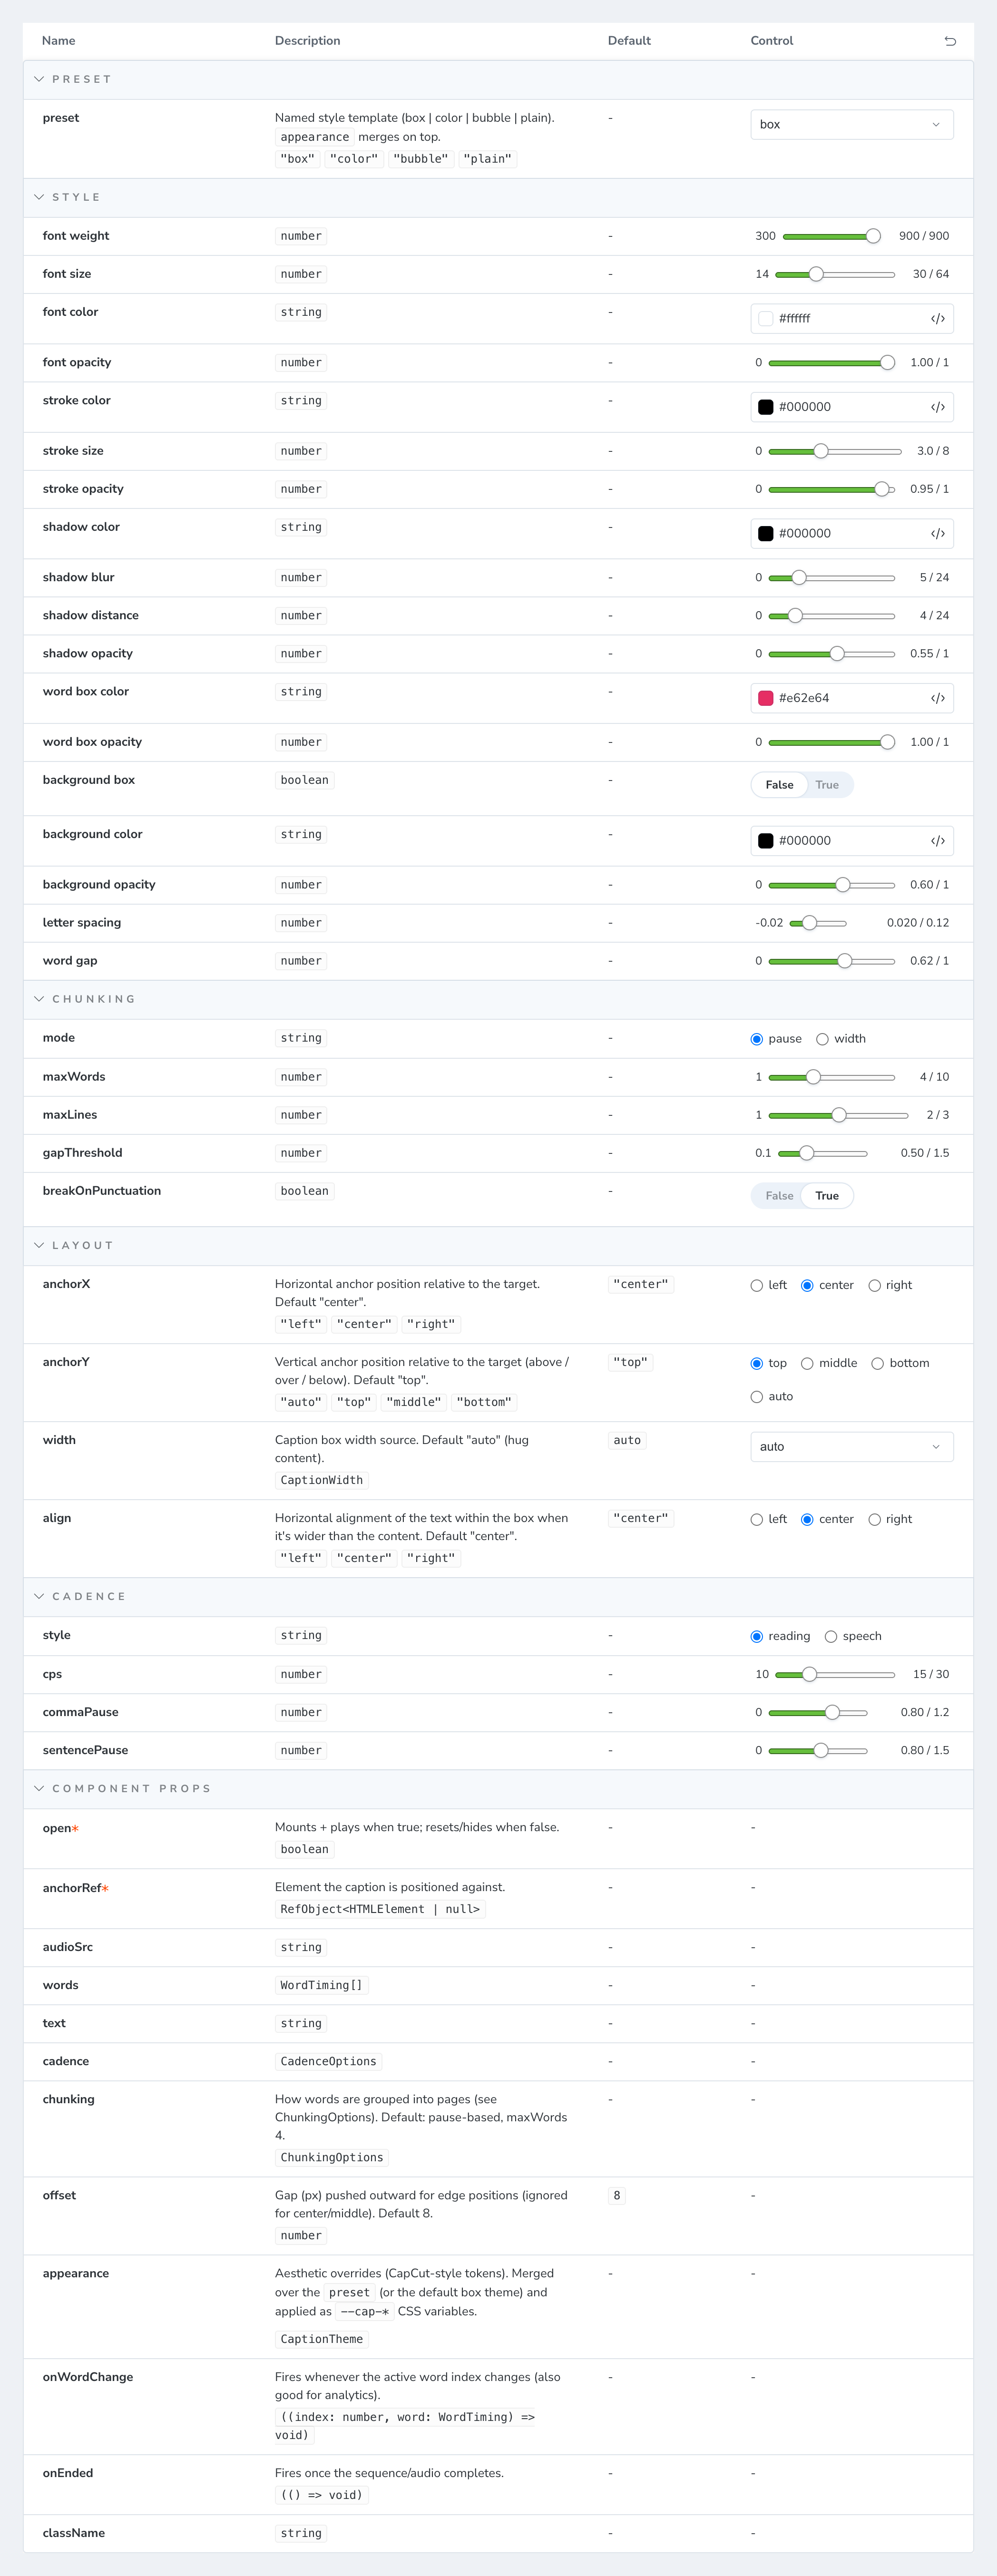
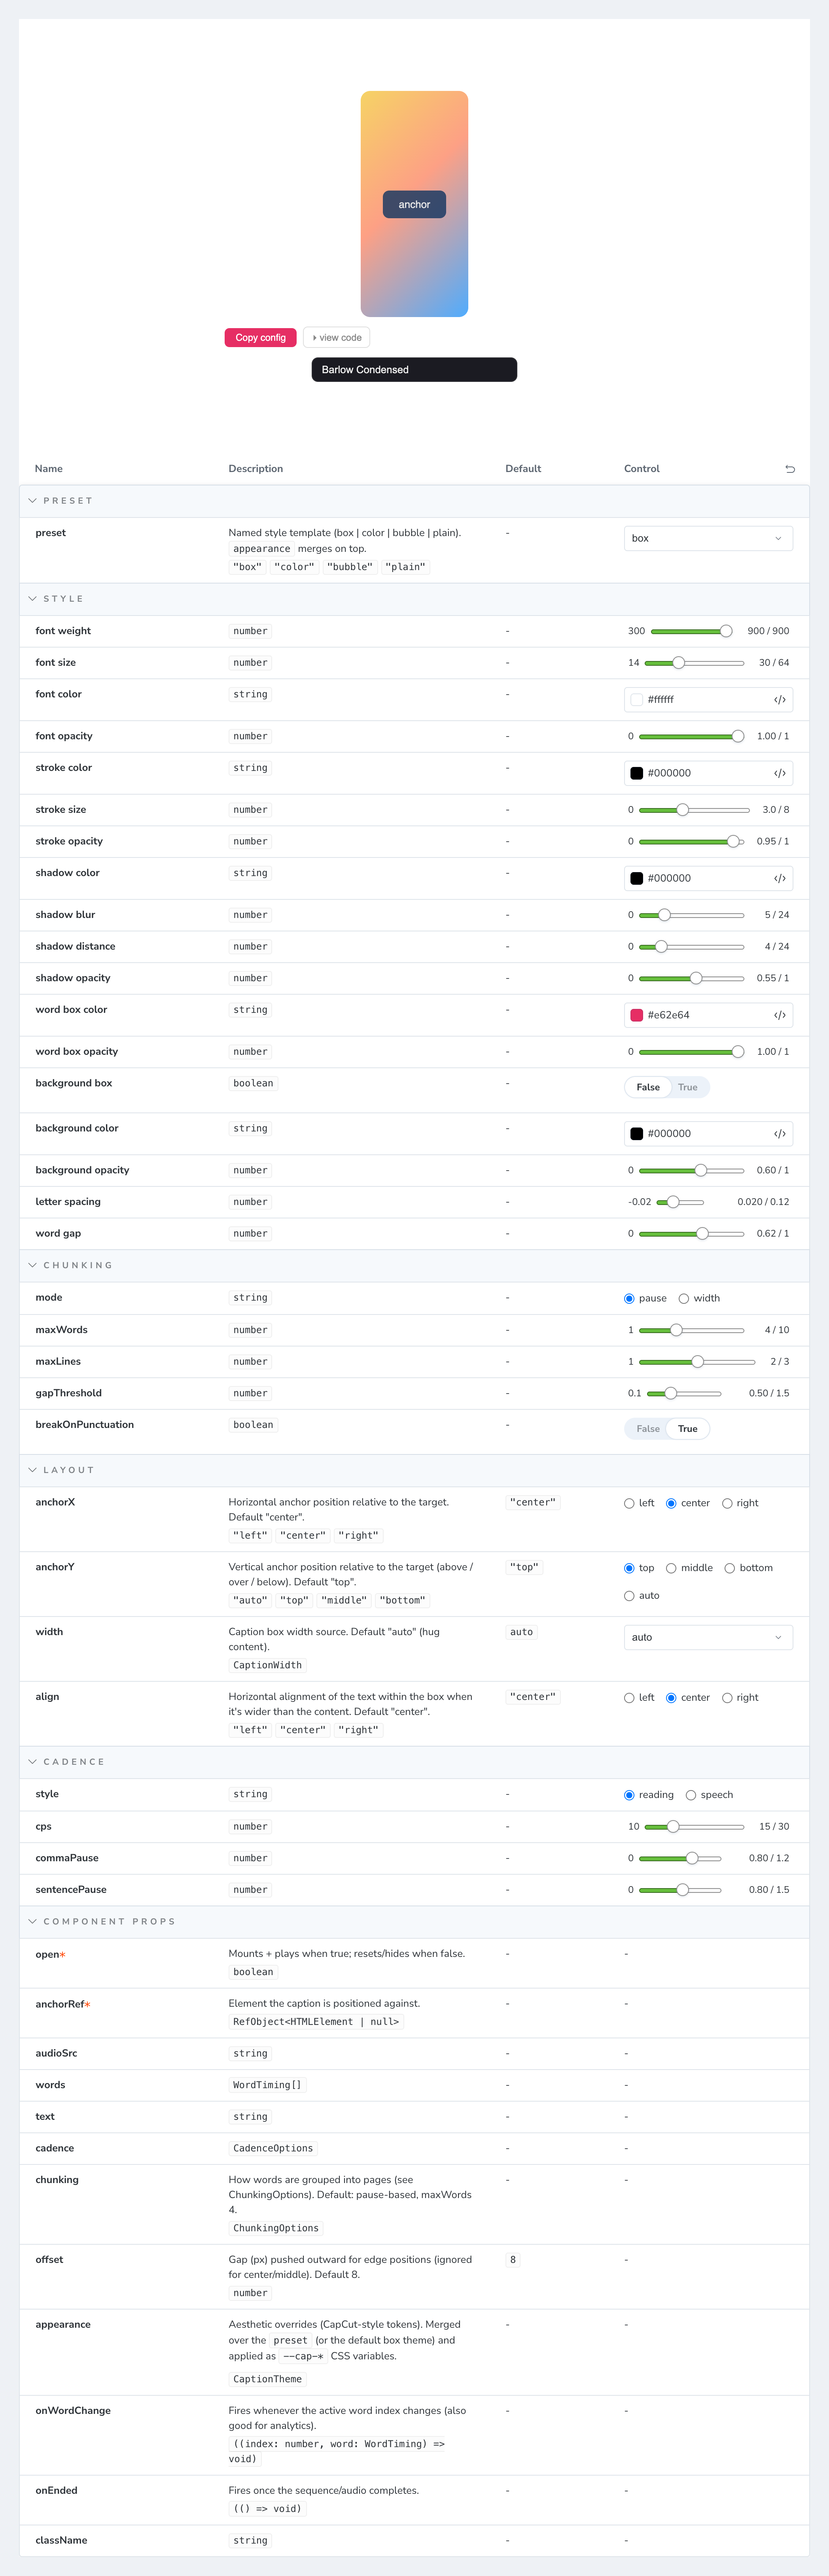
docs: add playground preview + font picker atop the config-options screenshot

diff --git a/README.md b/README.md
@@ -30,7 +30,7 @@ Set a `preset`, then override any individual token through the typed `appearance
 
 <p align="center"><img src="https://raw.githubusercontent.com/michaelandrewgamble/capicola/main/docs/expanded-config.png" width="820" alt="A Capicola appearance config and the caption it renders, side by side" /></p>
 
-Every prop and token is a live control in the [Storybook playground](https://michaelandrewgamble.github.io/capicola/?path=/story/components-capicola--playground) — presets, per-color opacity, fonts, chunking, and layout:
+Every prop and token is a live control in the [Storybook playground](https://michaelandrewgamble.github.io/capicola/?path=/story/components-capicola--playground) — a live preview with a searchable Google-font picker up top, then presets, per-color opacity, stroke/shadow, chunking, layout, and cadence:
 
 <p align="center"><img src="https://raw.githubusercontent.com/michaelandrewgamble/capicola/main/docs/config-options.png" width="560" alt="The full set of Capicola configuration options as live Storybook controls" /></p>
 